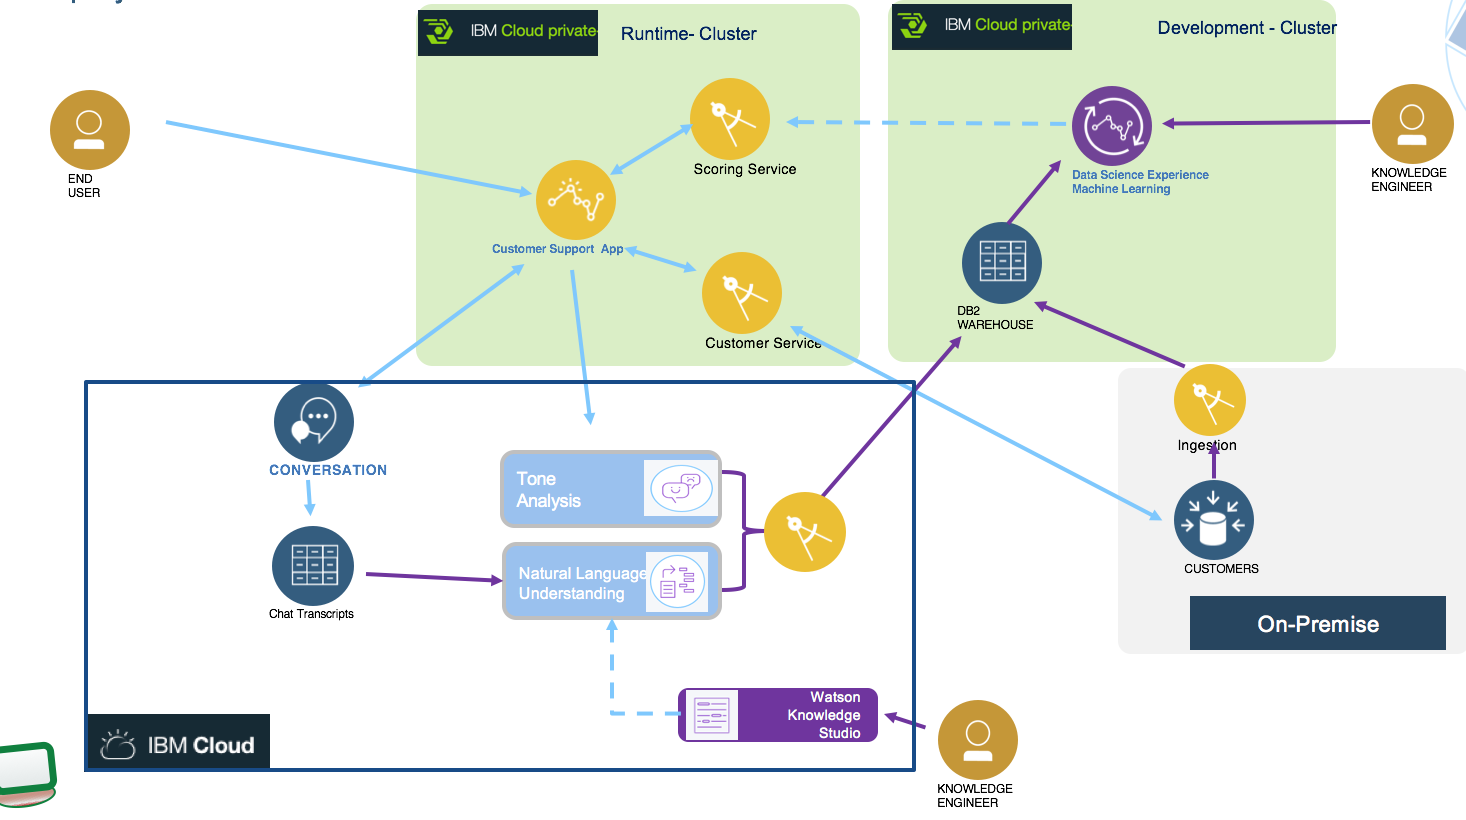
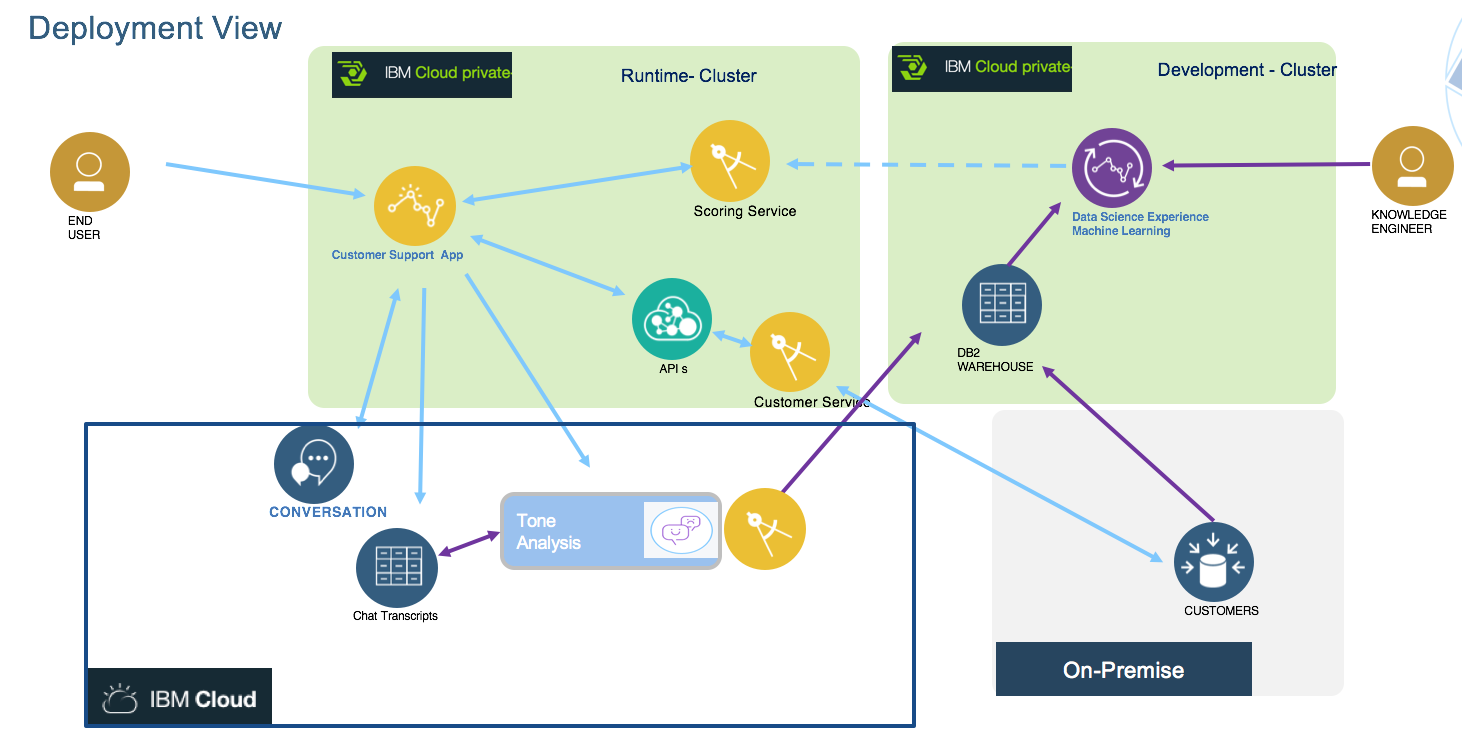
New deployment cfg

diff --git a/README.md b/README.md
@@ -1,6 +1,8 @@
-# Customer analysis with cognitive and analytics
+# Customer analysis with cognitive and analytics in hybrid cloud
 The goal of this implementation is to deliver a reference implementation for data management and service integration to consume structured and unstructured data to assess customer attrition.
-Modern applications are leveraging a set of capabilities to do a better assessment of customer characteristics and deliver best actions or recommendations. The technologies involved, include artificial intelligence, data governance, ingestion, enrichment, storage, analysis, machine learning, unstructured data classifications, natural language understanding, image recognition, speech to text, ....
+Modern applications are leveraging a set of capabilities to do a better assessment of customer characteristics and deliver best actions or recommendations. The technologies involved, include artificial intelligence, data governance, ingestion, enrichment, storage, analysis, machine learning, unstructured data classifications, natural language understanding, image recognition, speech to text, tone analysis....
+
+Update 01/30/18: The solution is not a lab or complete end to end tutorial...yet...
 
 ## Target audience
 * Architects who want to understand the components involved and the architecture constraints and design considerations
@@ -11,9 +13,9 @@ Modern applications are leveraging a set of capabilities to do a better assessme
 * Data scientists need different source of data, structured from traditional SQL based database (e.g. the customers and accounts data) and unstructured output of new cognitive services.
 * Data Scientists work hand by hand with application developers to quickly deliver solution to the business
 * Data access layer to traditional relational data should be done with a micro service approach exposing RESTful API or using modern z OS Connect application.
-* Cloud native apps, micro services, can be deployed in public or private cloud, like IBM Cloud private based on Kubernetes
-* Public services like the Watson services can be easily integrated within the solution
-* API management should be added to govern API
+* Cloud native apps, micro services, can be deployed in public or private cloud, like IBM Cloud private based on Kubernetes and containers
+* Public services like the Watson services can be easily integrated within the solution: Watson Data Platform, Data Science Experience, Tone Analyzer, Watson Conversation
+* API management is used to present a unique API for customer data, standardize for consumers like the webapp, even if the back end is Java based or z Connected based.
 
 ## Table of contents
 * [Presentation](#presentation)
@@ -53,7 +55,7 @@ Further the supervisor explains to Eddie that the reason he was not given the $7
 
 Eddie walks in the store and his problem was resolved. Once, he got the refund in one week he paid the first phone with his cash and the second phone with the $750 visa card.
 
-The customer churn service helped Eddie to remain as the customer for the Green Telco.
+The customer churn service helped Eddie to remain as a customer for the Green Telco.
 
 ### System Context diagram
 The following diagram illustrates the system context of the application, including analytics model preparation and run time execution.
@@ -64,10 +66,10 @@ This repository presents best practices to deploy such solution on public and pr
 
 ## Components
 From above figure left to right the components involved are:
-1. Web application to offer a set of services for the end user to use: from this user interface the end user, customer of Green Telco, can access his account, pays his bill and uses the chat bot user interface to get support help. [This note](docs/code.md) presents the implementation details.
+1. Web application to offer a set of services for the end user to use: from this user interface the end user, customer of Green Telco, can access his account, pays his bill and uses the chat bot user interface to get support help. [This note](docs/code.md) presents the implementation details and how to deploy it on ICP.
 1. The current chat application is not using any automated bot, but it is a messaging application with human as actors. There is no implementation for this component.
-1. The conversation transcripts are persisted in a document oriented database. We discuss about its implementation with cloudant in [this technical note.](docs/persist/chattranscripts.md)
-1. The chat bot is implemented with Watson Conversation. The workspace is delivered for you to upload to the Watson cloud service, [this note](docs/wcs/README.md) go into the implementation detail and deployment.
+1. The conversation transcripts are persisted in a document oriented database. We discuss about its implementation with Cloudant in [this technical note.](docs/persist/chattranscripts.md)
+1. The chat bot is implemented with Watson Conversation. The workspace is delivered for you to upload to a Watson cloud service you may have created, [this note](docs/wcs/README.md) go into the implementation detail and deployment.
 1. A scoring service to assess current risk of churn for the customer interacting with Green Telco services. This is a runtime analytics service using customer data and results from the Tone Analysis. [This note](docs/scoring-serv.md) goes over the detail of the deployment and implementation of this machine learning based service.
 1. The conversation sentence can be analyzed for tone analysis, and natural language understanding, those data are used by the scoring service. The service creation in IBM Cloud and the integration into the application flow is explained in [this note](./docs/w-tone-analyzer.md)
 1. The customer [data](https://github.com/ibm-cloud-architecture/refarch-integration-services#data-model) are persisted in on-premise server with relational database. We are using DB2 on-premise server for that. To read how the database was created see [the note in this repository](https://github.com/ibm-cloud-architecture/refarch-integration-services/blob/master/docs/DB2Creation.md)
@@ -101,6 +103,13 @@ The first configuration deploys the customer manager micro service on ICP, acces
 The cluster topology with some of the major ICP and solution components will look like the following diagram:
 
 ![](docs/icp-compo.png)
+
+### Using Watson Data Platform
+As an alternate to use DSX on ICP to develop the machine learning model, Data Scientist can use Watson data platform to gather the data, persist in public object store and deploy the model once trained to Watson Machine learning.
+
+![](docs/deployment-cfg3.png)
+
+See [this note](docs/ml/README.md) for detail about the implementation of the model.
 
 ### Using Data Service as Z Connect service
 For Z OS deployment the solution looks like the diagram below, where the data service and DB2 are running on Z OS.

diff --git a/docs/run.md b/docs/run.md
@@ -1,6 +1,17 @@
 # Run the different components of the solution
+This section addresses how to run all the components of the solution. It is not a tutorial and you need to have hands on experience on IBM Cloud Private and IBM Cloud. You also need access to Virtual Machines to be able to run the solution.
 
 ## Pre-Requisites
+### Server environment
+*If you work for IBM, please contact us so you can access our labs via VPN.* 
+
+If you want to setup the environment on your own you will need 4 computers/ VMs:
+* an ICP cluster with at the bare minimum of 3 VMs: one master node, one proxy and one worker node. This is for the run time. For the analytics part, using DSX, you can use the IBM Cloud service or use the `DSX developer chart` from the ICP catalog, and use your ICP instance.
+* One VM for DB2 community edition, Liberty
+In the close future we plan to deliver a Vagrant file to get a unique virtual environment with DB2 dev, Liberty, and you can use [this vagrant](https://github.com/IBM/deploy-ibm-cloud-private) file for ICP.
+
+In production you will use a dedicated cluster with DSX local deployed on it. This is out environment as explained [here](https://github.com/ibm-cloud-architecture/refarch-analytics/tree/master/docs/ICP/README.md)
+
 ### For the Web App built using nodejs and expressjs
 * For this application you need to have [nodejs](https://nodejs.org/en/) installed on your computer with the [npm](https://www.npmjs.com/) installer tool.
 * Clone this current repository, or if you want to work on the code, fork it in your own github repository and then clone your forked repository on your local computer. If you used the `fork-repos.sh` script from the [Data & Analytics reference implementation solution](https://github.com/ibm-cloud-architecture/refarch-analytics) main repository, you are already set.
@@ -20,6 +31,10 @@ npm install
 ```
 sudo npm install -g nodemon
 ```
+### For Watson Conversation service
+
+### For Tone analyzer
+Create the service in IBM Cloud and get the credentials. See also [this note](w-tone-analyzer.md) for more details.
 
 ## Build
 ### For the Web App
@@ -75,7 +90,7 @@ $ docker push greencluster.icp:8500/greencompute/greenapp:v0.0.1
 ```
 
 #### Deploy the release using the helm
-First you need to rename the file values-tmpl.yaml to value.yaml and set the parameters as the config.json. We are using the mechanism of config map to externalize the configuration as defined by the `config.json`. While using cloud foundry or pure local nodejs deployment this file is read from the filesystem by the server.js. But with kubernetes pods the best practice is to export this configuration into `ConfigMap`.
+First you need to rename the file `values-tmpl.yaml` to `values.yaml` and set the parameters as the config.json. We are using the mechanism of config map to externalize the configuration as defined by the `config.json`. While using cloud foundry or pure local nodejs deployment this file is read from the filesystem by the server.js. But with kubernetes pods the best practice is to export this configuration into `ConfigMap`.
 To do so we need to create a new template: `templates/configmap.yaml`. This file uses the same structure as the `config.json` file:
 
 ```yaml

diff --git a/docs/code.md b/docs/code.md
@@ -190,5 +190,6 @@ getCustomerByEmail : function(config,req,res){
 }
 
 ```
+### ICP deployment
 ## Customer Micro service
 The back end customer management function is a micro service in its separate repository, and the code implementation explanation can be read [here.](https://github.com/ibm-cloud-architecture/refarch-integration-services#code-explanation)

diff --git a/docs/ml/README.md b/docs/ml/README.md
@@ -1,0 +1,1 @@
+# ML
